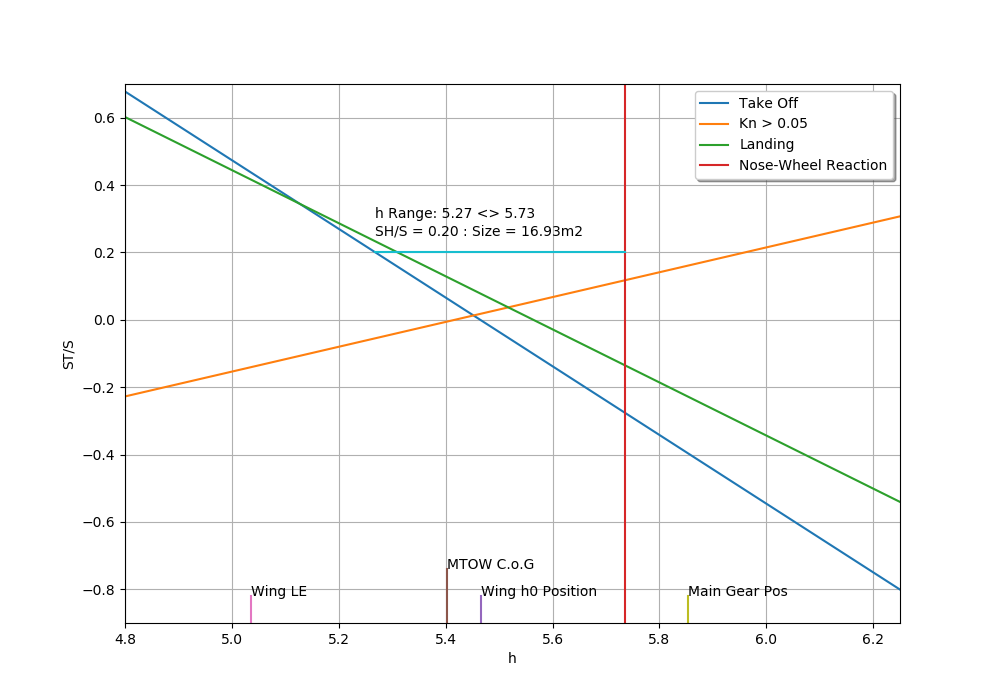
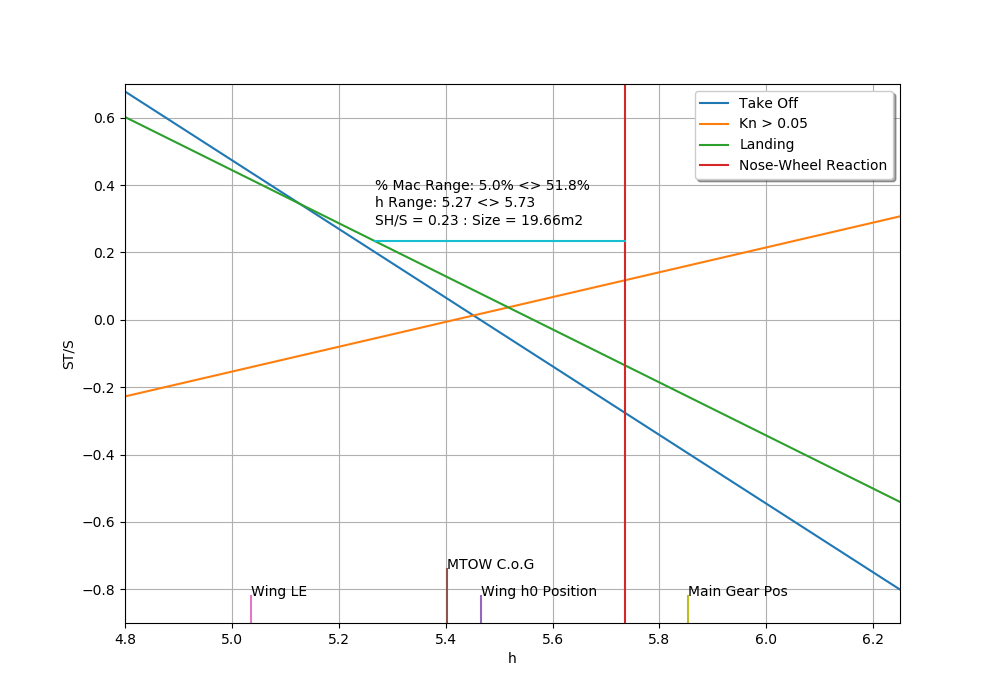
Add search on both landing and take-off. Add mac_finder. Tidy.

Changed region(s): [[0.372, 0.24, 0.62, 0.36]]

diff --git a/scissorplot.py b/scissorplot.py
@@ -187,7 +187,7 @@ def size_finder_range(x_h, left_y, right_y, static_y, hf, ha):
 
         for y_ar in static_y:
             x_find_a.append(y_ar)
-        print(x_find_a)
+        #print(x_find_a)
         output = [hf, min(x_find_a), hf_y]
 
     return output
@@ -195,8 +195,11 @@ def size_finder_range(x_h, left_y, right_y, static_y, hf, ha):
 
 def h_finder_from_mac(mac_pos):
     result = h0-0.25+mac_pos
-    print(result)
     return result
+
+
+def mac_finder_from_h(h):
+    return (h-h0)+0.25
 
 
 def v_bar(size):
@@ -204,7 +207,7 @@ def v_bar(size):
     print("v_bar: " + str(size*tail_moment_arm))
 
 
-def plotit(r1, r2):
+def plotit(r1, r2, search_mac):
     # Create Range of h values
     step = 0.1
     r2 = r2 + step
@@ -267,12 +270,26 @@ def plotit(r1, r2):
     the other via known fwd and aft positions"""
     # Known Delta h range
     #size = size_finder_delta(x_h, takeOffRotation(x_h), [kn(x_h)], [noseWheel()], 0.4)
-    size = size_finder_range(x_h, takeOffRotation(x_h), [kn(x_h)], [noseWheel()], h_finder_from_mac(0.05), h_finder_from_mac(0.39))
+    # Compare landing and t/o case
+    sizes = []
+    sizes_results = []
+    search_f = search_mac[0]
+    search_a = search_mac[1]
+    sizes_results.append(size_finder_range(x_h, takeOffRotation(x_h), [kn(x_h)], [noseWheel()], h_finder_from_mac(search_f),
+                                           h_finder_from_mac(search_a)))
+    sizes.append(sizes_results[-1][2])
+    sizes_results.append(size_finder_range(x_h, landing(x_h), [kn(x_h)], [noseWheel()], h_finder_from_mac(search_f),
+                                           h_finder_from_mac(search_a)))
+
+    sizes.append(sizes_results[-1][2])
+    size = sizes_results[sizes.index(max(sizes))]
     v_bar(size[2])
     plt.plot([size[0], size[1]], [size[2], size[2]])
     plt.annotate("SH/S = " + str(format(size[2], '.2f')) + " : Size = " + str(format(size[2]*params['Sarea'], '.2f')) + "m2", [size[0], size[2]+0.05])
     plt.annotate("h Range: " + str(format(size[0], '.2f')) + " <> " + str(format(size[1], '.2f')), [size[0], size[2]+0.1])
+    plt.annotate("% Mac Range: " + str(format(100*mac_finder_from_h(size[0]), '.1f')) + "% <> " + str(format(100*mac_finder_from_h(size[1]), '.1f')) + "%", [size[0], size[2]+0.15])
     print("h Range: " + str(format(size[0], '.2f')) + " <> " + str(format(size[1], '.2f')))
+    print("% Mac Range: " + str(format(mac_finder_from_h(size[0]), '.2f')) + " <> " + str(format(mac_finder_from_h(size[1]), '.2f')))
     print("SH/S = " + str(format(size[2], '.2f')) + " : Size = " + str(format(size[2]*params['Sarea'], '.2f')) + "m2")
     plt.grid(True)
     plt.legend(loc='upper right', shadow=True)
@@ -280,5 +297,4 @@ def plotit(r1, r2):
     plt.show()
 
 
-plotit(4.8, 6.25)
-
+plotit(4.8, 6.25, [0.05, 0.39])
